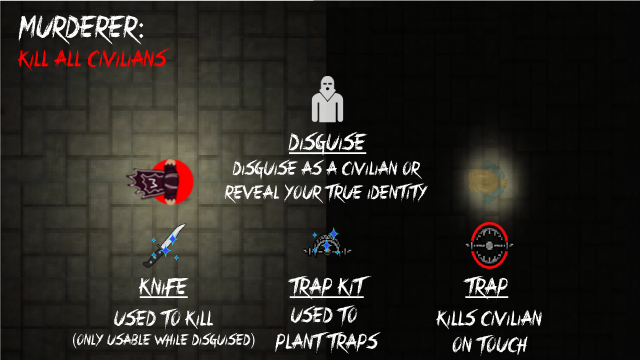
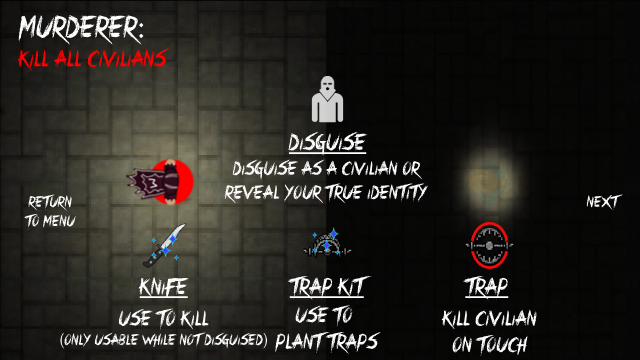
Enhanced tutorial. Synced server.

diff --git a/MurderMansion/core/src/com/jkjk/Host/MMServer.java b/MurderMansion/core/src/com/jkjk/Host/MMServer.java
@@ -75,7 +75,6 @@ public class MMServer {
 		participantId = new ConcurrentHashMap<String, String>();
 
 		// System.out.println("Initialize fields");
-		startTime = System.currentTimeMillis();
 		playerStats = new PlayerStatuses(numOfPlayers);
 		objectLocations = new ObjectLocations(numOfPlayers, this);
 
@@ -121,8 +120,10 @@ public class MMServer {
 		}
 		if (gameStartPause.isCountingDown() && gameStatus.getGameStatus() == 0) {
 			gameStartPause.update();
-			if (!gameStartPause.isCountingDown())
+			if (!gameStartPause.isCountingDown()) {
+				startTime = System.currentTimeMillis();
 				gameStatus.begin();
+			}
 		}
 	}
 
@@ -539,13 +540,13 @@ class serverAcceptThread extends Thread {
 		while (server.getClients().size() < server.getNumOfPlayers()) {
 			try {
 				Socket socket = server.serverSocket.accept();
-				
+
 				// Set socket timeout as 30 seconds
 				socket.setSoTimeout(30000);
-				
+
 				// Add in client socket
 				server.getClients().put("Player " + idCount, socket);
-				
+
 				// Add input stream
 				BufferedReader reader = new BufferedReader(new InputStreamReader(socket.getInputStream()));
 				server.getServerInput().put("Player " + idCount, reader);
@@ -664,16 +665,16 @@ class serverAcceptThread extends Thread {
 				Gdx.app.log(TAG, "Error creating server socket: " + e.getMessage());
 			}
 		}
-		
-		//Send collated list of participant ids to all clients
-			String ret = "";
-			for (int i = 0; i < server.getNumOfPlayers(); i++) {
-				ret += server.participantId.get("Player " + i) + "_";
-			}
-			ret = ret.substring(0, ret.length() - 1);
-			server.sendToClients("participantIds");
-			server.sendToClients(ret);
-			server.sendToClients("end");
+
+		// Send collated list of participant ids to all clients
+		String ret = "";
+		for (int i = 0; i < server.getNumOfPlayers(); i++) {
+			ret += server.participantId.get("Player " + i) + "_";
+		}
+		ret = ret.substring(0, ret.length() - 1);
+		server.sendToClients("participantIds");
+		server.sendToClients(ret);
+		server.sendToClients("end");
 	}
 }
 
@@ -698,12 +699,11 @@ class serverListener extends Thread {
 					// Do something with message
 					server.handleMessage(msg);
 				}
-			}catch(SocketException e){
+			} catch (SocketException e) {
 				System.out.println("Server socket error while reading: " + e.getMessage());
 				e.printStackTrace();
 				break;
-			}
-			catch (Exception e) {
+			} catch (Exception e) {
 				System.out.println("Server error while reading: " + e.getMessage());
 				e.printStackTrace();
 			}

diff --git a/MurderMansion/core/src/com/jkjk/GameWorld/HudRenderer.java b/MurderMansion/core/src/com/jkjk/GameWorld/HudRenderer.java
@@ -96,6 +96,8 @@ public class HudRenderer {
 	private ToastMessage TM;
 	private ToastMessage GWTM;
 	private boolean welcomeMsg;
+	private float scale;
+	private BitmapFont syncFont;
 
 	// private boolean
 	/**
@@ -146,6 +148,7 @@ public class HudRenderer {
 		TM = new ToastMessage(335);
 		GWTM = gWorld.getTM();
 		welcomeMsg = true;
+		scale = Gdx.graphics.getWidth() / gameWidth;
 	}
 
 	public static HudRenderer getInstance(GameWorld gWorld, MMClient client, float gameWidth,
@@ -193,6 +196,7 @@ public class HudRenderer {
 		timebox = AssetLoader.time;
 		weapon_parts_counter = AssetLoader.weapon_parts_counter;
 		font = AssetLoader.crimesFont36Time;
+		syncFont = AssetLoader.crimesFont36Sync;
 		settingsButtonDraw = AssetLoader.settings_button_draw;
 		pause_main = AssetLoader.pause_main;
 		normalSettings = AssetLoader.normalSettings;
@@ -210,7 +214,7 @@ public class HudRenderer {
 
 		if (!gameStarted) {
 			String s = "Synchronizing...";
-			font.draw(batch, s, 300-(font.getBounds(s).width/2), 330);
+			syncFont.draw(batch, s, (300-(font.getBounds(s).width/2)) * scale, 330 * scale);
 			GWTM.render(batch);
 			batch.end();
 		}

diff --git a/MurderMansion/core/src/com/jkjk/MMHelpers/AssetLoader.java b/MurderMansion/core/src/com/jkjk/MMHelpers/AssetLoader.java
@@ -91,6 +91,7 @@ public class AssetLoader {
 	public static BitmapFont crimesFont36;
 	public static BitmapFont crimesFont48;
 	public static BitmapFont crimesFont36Time;
+	public static BitmapFont crimesFont36Sync;
 	public static BitmapFont crimesFont36Settings;
 	public static BitmapFont crimesFont36Message;
 	public static BitmapFont crimesFont36Black;
@@ -302,6 +303,8 @@ public class AssetLoader {
 		crimesFont48 = new BitmapFont(Gdx.files.internal("Fonts/crimesFont48.fnt"));
 		crimesFont36Time = new BitmapFont(Gdx.files.internal("Fonts/crimesFont36.fnt"));
 		crimesFont36Time.setScale(0.7f, 0.7f);
+		crimesFont36Sync = new BitmapFont(Gdx.files.internal("Fonts/crimesFont36.fnt"));
+		crimesFont36Sync.setScale(Gdx.graphics.getWidth() / gameWidth);
 		crimesFont36Settings = new BitmapFont(Gdx.files.internal("Fonts/crimesFont36.fnt"));
 		crimesFont36Black = new BitmapFont(Gdx.files.internal("Fonts/crimesFont36Black.fnt"));
 		basker32Message = new BitmapFont(Gdx.files.internal("Fonts/Basker32.fnt"));

diff --git a/MurderMansion/core/src/com/jkjk/Screens/TutorialScreen.java b/MurderMansion/core/src/com/jkjk/Screens/TutorialScreen.java
@@ -120,6 +120,11 @@ public class TutorialScreen implements Screen {
 					stage.clear();
 					stage.addActor(mapTut);
 					stage.addActor(backButton);
+					stage.addActor(nextButton);
+				} else if (stage.getActors().first().equals(mapTut)) {
+					stage.clear();
+					((Game) Gdx.app.getApplicationListener()).setScreen(new MenuScreen(game, gameWidth,
+							gameHeight));
 				} else {
 					stage.clear();
 					stage.addActor(hudTut);
